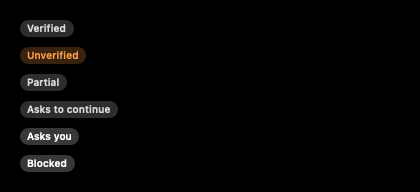
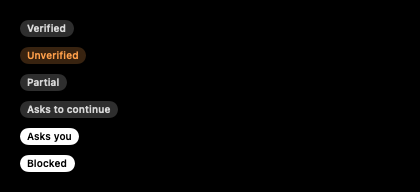
Overseer taste pass: urgent badges inverted, no double badge, names said once
Blocked / Asks you looked like Partial; they now use the Needs you pill's inverted
style. A seat already showing Needs you drops its verdict badge. A plain pane whose
tab title is the folder name no longer reads 'true true'.

Changed region(s): [[0.031, 0.6562, 0.1857, 0.9062]]

diff --git a/Sources/True/Views/VerdictBadge.swift b/Sources/True/Views/VerdictBadge.swift
@@ -16,11 +16,14 @@ extension VerdictKind {
 struct VerdictBadge: View {
     let kind: VerdictKind
     var body: some View {
+        // Blocked / Asks you are inverted like the Needs you pill (`AttentionPill`): the most urgent rows must
+        // not look like Partial.
+        let loud = kind == .blocked || kind == .asksYou
         Text(kind.label)
             .font(.caption2.weight(.semibold))
             .padding(.horizontal, 7).padding(.vertical, 2)
-            .background(kind.tint.opacity(0.22), in: .capsule)
-            .foregroundStyle(kind.tint)
+            .background(loud ? Color.white : kind.tint.opacity(0.22), in: .capsule)
+            .foregroundStyle(loud ? Color.black : kind.tint)
             .accessibilityLabel("Verdict: \(kind.label)")
     }
 }
@@ -35,15 +38,20 @@ struct YourMoveRow: Identifiable, Equatable {
     let at: Date
     var id: UUID { pane }
 
-    /// Non-verified verdicts, most urgent first. `name` is the seat name, else the tab title.
+    /// Non-verified verdicts, most urgent first. `name` is the seat name, else the tab title, else the project.
+    /// `project` is empty when it would repeat `name` (a plain pane's tab title is usually the folder name).
     @MainActor static func build(_ verdicts: [UUID: OverseerVerdict], seatName: (UUID) -> String?,
                                  tabTitle: (UUID) -> String?) -> [YourMoveRow] {
         OverseerStore.ordered(verdicts).filter { $0.verdict.kind != .verified }.map { p, v in
-            YourMoveRow(pane: p, name: seatName(p) ?? tabTitle(p) ?? "Terminal",
-                        project: HubProject.title(HubProject.key(forCwd: v.cwd ?? "")),
-                        kind: v.kind, reason: v.reason, at: v.at)
+            let project = HubProject.title(HubProject.key(forCwd: v.cwd ?? ""))
+            let name = seatName(p) ?? tabTitle(p) ?? project
+            return YourMoveRow(pane: p, name: name,
+                               project: name.caseInsensitiveCompare(project) == .orderedSame ? "" : project,
+                               kind: v.kind, reason: v.reason, at: v.at)
         }
     }
+
+    var spoken: String { [name, project, kind.label, reason].filter { !$0.isEmpty }.joined(separator: ", ") }
 }
 
 struct YourMoveSection: View {
@@ -60,7 +68,9 @@ struct YourMoveSection: View {
                         VStack(alignment: .leading, spacing: 1) {
                             HStack(spacing: 6) {
                                 Text(r.name).font(.body).foregroundStyle(Theme.text).lineLimit(1).truncationMode(.middle)
-                                Text(r.project).font(.callout).foregroundStyle(Theme.hubSecondary).lineLimit(1)
+                                if !r.project.isEmpty {
+                                    Text(r.project).font(.callout).foregroundStyle(Theme.hubSecondary).lineLimit(1)
+                                }
                             }
                             Text(r.reason).font(.callout).foregroundStyle(Theme.hubSecondary).lineLimit(1).truncationMode(.tail)
                         }
@@ -72,7 +82,7 @@ struct YourMoveSection: View {
                 }
                 .onTapGesture { onFocus(r.pane) }
                 .accessibilityElement(children: .combine)
-                .accessibilityLabel("\(r.name), \(r.project), \(r.kind.label), \(r.reason)")
+                .accessibilityLabel(r.spoken)
                 .accessibilityHint("Focuses this pane")
                 .accessibilityAddTraits(.isButton)
             }

diff --git a/Tests/TrueTests/HubSnapshotTests.swift b/Tests/TrueTests/HubSnapshotTests.swift
@@ -104,13 +104,16 @@ struct HubSnapshotTests {
             (.partial, "Stopped with work left", 1500), (.verified, "A check ran after the work", 30)]
         var verdicts: [UUID: OverseerVerdict] = [:]
         var names: [UUID: String] = [:]
+        var titles: [UUID: String] = [:]
         for (i, k) in kinds.enumerated() {
             let id = UUID()
             verdicts[id] = OverseerVerdict(kind: k.0, reason: k.1, at: t.addingTimeInterval(-k.2), sessionID: "v\(i)",
                                            cwd: i % 2 == 0 ? "/Users/y/Projects/true" : "/Users/y/Projects/finance-desk")
             if i < 2 { names[id] = i == 0 ? "lead" : "cfo" }
+            // Plain panes: a default title (the folder name, said once) and a custom-named tab.
+            else { titles[id] = i == 3 ? "invoices" : (verdicts[id]?.cwd as NSString?)?.lastPathComponent }
         }
-        let rows = YourMoveRow.build(verdicts, seatName: { names[$0] }, tabTitle: { _ in "2" })
+        let rows = YourMoveRow.build(verdicts, seatName: { names[$0] }, tabTitle: { titles[$0] })
         var a = actions
         a.verdict = { $0 == "lead" ? .blocked : $0 == "cfo" ? .asksYou : nil }
         try snapshot("overseer-all-card", width: 1000, height: 780) {

diff --git a/Tests/TrueTests/OverseerStoreTests.swift b/Tests/TrueTests/OverseerStoreTests.swift
@@ -218,3 +218,22 @@ private let fixedDigest = TurnDigest(asked: "ship it API_KEY=abc123", steps: [Tu
         #expect(other.transcript == nil)
     }
 }
+
+@MainActor
+@Suite struct YourMoveRowTests {
+    @Test func folderTitleIsSaidOnceAndVerifiedIsLeftOut() {
+        let a = UUID(), b = UUID(), c = UUID()
+        let at = Date(timeIntervalSince1970: 1_000)
+        let cwd = "/tmp/true-overseer-nogit/true"
+        let v: [UUID: OverseerVerdict] = [
+            a: OverseerVerdict(kind: .unverified, reason: "r", at: at, sessionID: nil, cwd: cwd),
+            b: OverseerVerdict(kind: .blocked, reason: "r", at: at, sessionID: nil, cwd: cwd),
+            c: OverseerVerdict(kind: .verified, reason: "r", at: at, sessionID: nil, cwd: cwd),
+        ]
+        let rows = YourMoveRow.build(v, seatName: { $0 == b ? "lead" : nil }, tabTitle: { _ in "true" })
+        #expect(rows.map(\.pane) == [b, a])
+        #expect(rows[0].name == "lead" && rows[0].project == "true")
+        #expect(rows[1].name == "true" && rows[1].project.isEmpty)
+        #expect(rows[1].spoken == "true, Unverified, r")
+    }
+}

diff --git a/Sources/True/Views/AgentCard.swift b/Sources/True/Views/AgentCard.swift
@@ -120,7 +120,8 @@ struct AgentCard: View {
                             iconButton("slider.horizontal.3", "Edit") { actions.edit(agent) }
                         }
                         .opacity(showActions ? 1 : 0).allowsHitTesting(showActions).accessibilityHidden(true)
-                        if let v = actions.verdict(agent.name) { VerdictBadge(kind: v) }
+                        // A live Needs you pill already says "look here"; a second badge would repeat it.
+                        if status != .needsYou, let v = actions.verdict(agent.name) { VerdictBadge(kind: v) }
                         AttentionPill(status: status)
                     }
                     HStack(spacing: 6) {
